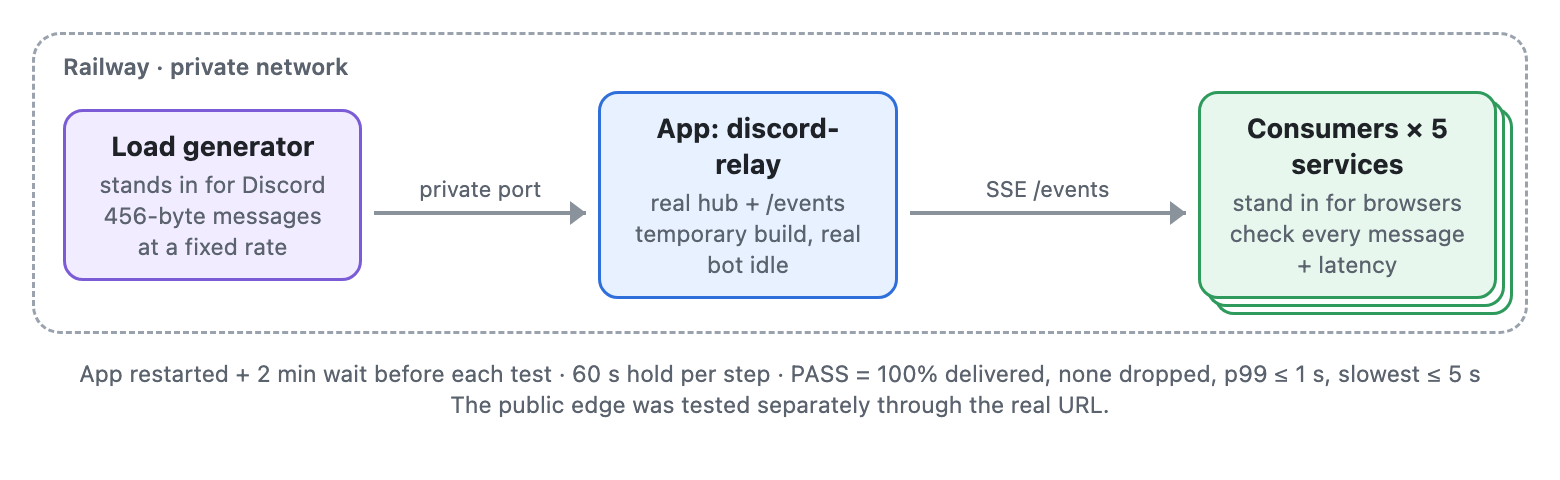
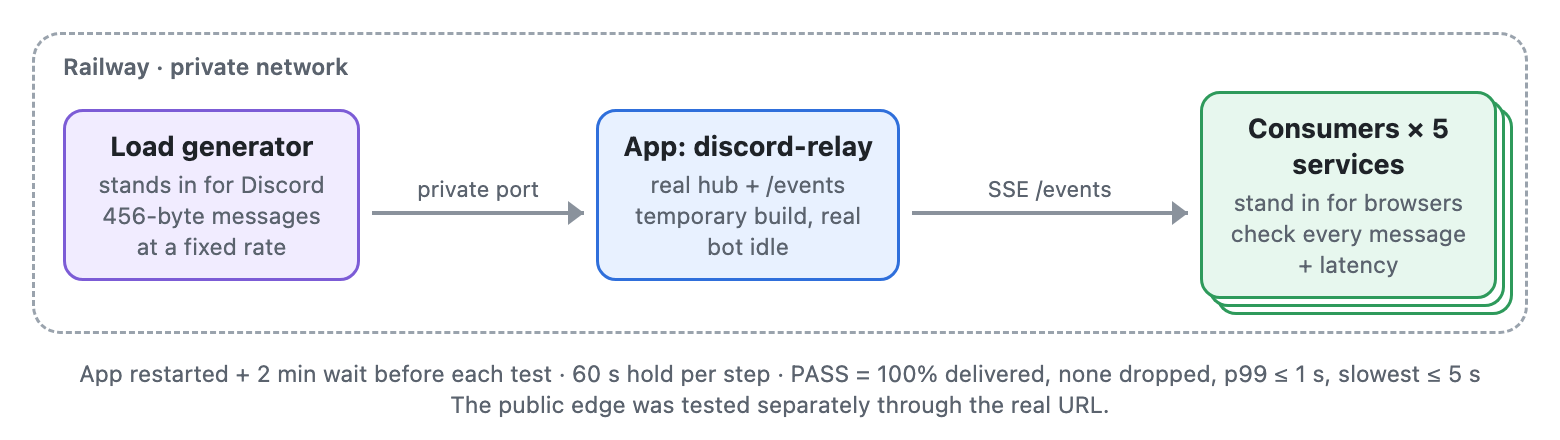
Keep the app name on one line in the load test diagram.

diff --git a/docs/load-test-setup.html b/docs/load-test-setup.html
@@ -15,7 +15,7 @@
 <div class="grp"><span class="gl">Railway · private network</span><div class="row">
 <div class="n ext"><b>Load generator</b><small>stands in for Discord<br>456-byte messages at a fixed rate</small></div>
 <div class="h"><span class="lbl">private port</span><span class="ln"></span></div>
-<div class="n our"><b>App: discord-relay</b><small>real hub + /events<br>temporary build, real bot idle</small></div>
+<div class="n our"><b style="white-space:nowrap">App: discord-relay</b><small>real hub + /events<br>temporary build, real bot idle</small></div>
 <div class="h"><span class="lbl">SSE /events</span><span class="ln"></span></div>
 <div class="n usr stack"><b>Consumers × 5 services</b><small>stand in for browsers<br>check every message + latency</small></div>
 </div></div>
